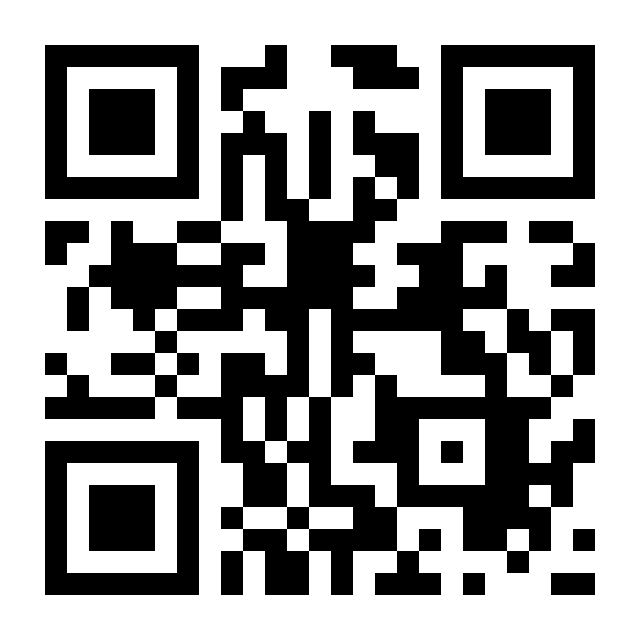
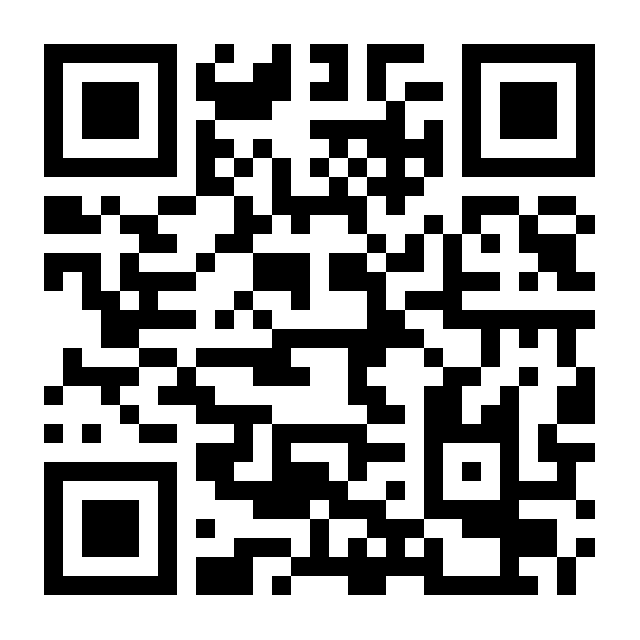
pdf corregido

diff --git a/resume.tex b/resume.tex
@@ -69,9 +69,11 @@ Busco aprender constantemente y deseo contribuir a mi bienestar y al de quienes 
     \vspace{0.5em}
     \skillsection{Software y Herramientas}
     \skill{Docker}{1}
-    \skill{neovim}{2}
+    \skill{Visual Studio Code}{2}
     \skill{GIMP}{2}
     \skill{Office}{4}
+    \skill{git}{1}
+    \skill{neovim}{2}
     
     \section{Lenguajes}
     
@@ -92,11 +94,11 @@ Busco aprender constantemente y deseo contribuir a mi bienestar y al de quienes 
 
     \section{Contacto}
     
-    \email{agus@agustinulloa.xyz}
+    \email{agustinulloa@protonmail.com}
     \phone{(+54) 11 5990-7299}
     \location{Ramallo 4445, 1430 CABA}
     \vspace{0.5em}
-    \homepage{agustinulloa.xyz}{https://www.agustinulloa.xyz}
+    \homepage{agustinulloa.github.io}{https://gh0ste.github.io/agustinulloa.github.io/}
     \matrixorg{@invertwhite:matrix.org}
     \github{@gh0ste}{https://github.com/gh0ste}
     \linkedin{Agustín Ulloa}{https://www.linkedin.com/in/agustín-ulloa-a2569a21b}
@@ -114,7 +116,7 @@ Busco aprender constantemente y deseo contribuir a mi bienestar y al de quienes 
     \section[\faGears]{Historial de trabajo}
     No tengo experiencia laboral de ningún tipo, pero sí tengo muchísimas ganas de incursionar en el mundo laboral. 
 
-    Quiero tener contacto con verdaderos profesionales, aprender nuevas cosas constantemente, mejorar y vivir 
+    Quiero tener contacto con verdaderos profesionales, aprender nuevas cosas, mejorar y vivir 
     la experiencia de trabajar en serio.
     
     \section[\faMortarBoard]{Educación}
@@ -169,18 +171,19 @@ Busco aprender constantemente y deseo contribuir a mi bienestar y al de quienes 
     Siendo \textbf{\href{https://lukesmith.xyz/}{Luke Smith}} mi mayor mentor.
 
     \medskip
-    También me gustaría crear una fundación para promover ideas de la libertad en general y hacer que el software libre llegue a más gente.
+    Me gustaría crear una fundación para promover ideas de la libertad en general y hacer que el software libre llegue a más gente.
 
     \medskip
     Por otro lado más personal y no laboral... En el futuro me encantaría poder tener una banda músical y jugar mucho con el lado artístico.\\
     No descarto la idea de experimentar con líricas sobre informática y todo el mundo de la computación!
 
     \section{Gráfico horario}
-    \wheelchart{1cm}{0.5cm}{
+    \wheelchart{1.2cm}{0.5cm}{
         6/8em/accent!20/Dormir,
         8/8em/accent!40/Escuela,
-        6/8em/accent!80/Aprendiendo cosas nuevas,
-        4/8em/accent!60/Ocio.
+        4/8em/accent!80/Aprendiendo cosas nuevas,
+        4/8em/accent!40/Posible espacio para trabajo,
+        2/8em/accent!60/Ocio.
     }
 }
 \makebody
